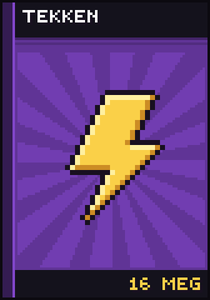
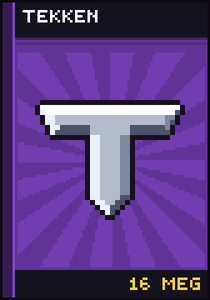
feat(art): draw tekken as its title t

Changed region(s): [[0.1429, 0.3, 0.8857, 0.75]]

diff --git a/tools/gen_theme_art.py b/tools/gen_theme_art.py
@@ -1194,10 +1194,16 @@ def mortal_kombat(p):  # the dragon medallion
     p.o(-27, -6, 1.6)
 
 
-def tekken(p):  # the mishima lightning
-    p.pg([(10, -50), (-24, 2), (-4, 2), (-16, 48), (26, -10), (6, -10), (22, -50)], 1.5)
-    for a, b in (((-24, -30), (-36, -38)), ((-30, -12), (-44, -14)), ((28, 8), (38, 14)), ((26, 24), (32, 34))):
-        p.l([a, b])
+def tekken(p):  # the title logo's t: a chiselled letter with slanted bar ends and a pointed stem
+    half = [(0, -44), (48, -44), (40, -24), (10, -24), (10, 26), (0, 46)]
+    inner = [(0, -37), (38, -37), (35.5, -31), (4, -31), (4, 24.5), (0, 32.5)]
+    outer = half + mirror(half[::-1])[1:-1]
+    p.pg(outer, 0)
+    p.pg(inner + mirror(inner[::-1])[1:-1], 0)
+    for (ox, oy), (ix, iy) in list(zip(half, inner))[1:-1]:
+        for s in (1, -1):
+            p.l([(ox * s, oy), (ix * s, iy)], 0)
+    p.l([half[-1], inner[-1]], 0)
 
 
 def samurai_shodown(p):  # a katana and a falling sakura blossom
@@ -1300,7 +1306,7 @@ ART = {
     "horses": (horses, (150, 96, 60), -5, 0.95, (-34, 0)),
     "professor-layton": (professor_layton, (150, 78, 44), -6, 1.0, (-10, 0)),
     "mortal-kombat": (mortal_kombat, (140, 32, 28), -4, 1.0, (-10, 0)),
-    "tekken": (tekken, (96, 52, 150), 8, 1.0, (-16, 0)),
+    "tekken": (tekken, (96, 52, 150), -6, 0.95, (-22, 0)),
     "samurai-shodown": (samurai_shodown, (120, 40, 50), -30, 1.12, (-14, 14)),
     "fatal-fury": (fatal_fury, (60, 100, 150), -4, 1.0, (-16, 0)),
     "r-type": (r_type, (108, 58, 88), -6, 0.85, (-30, 22)),
